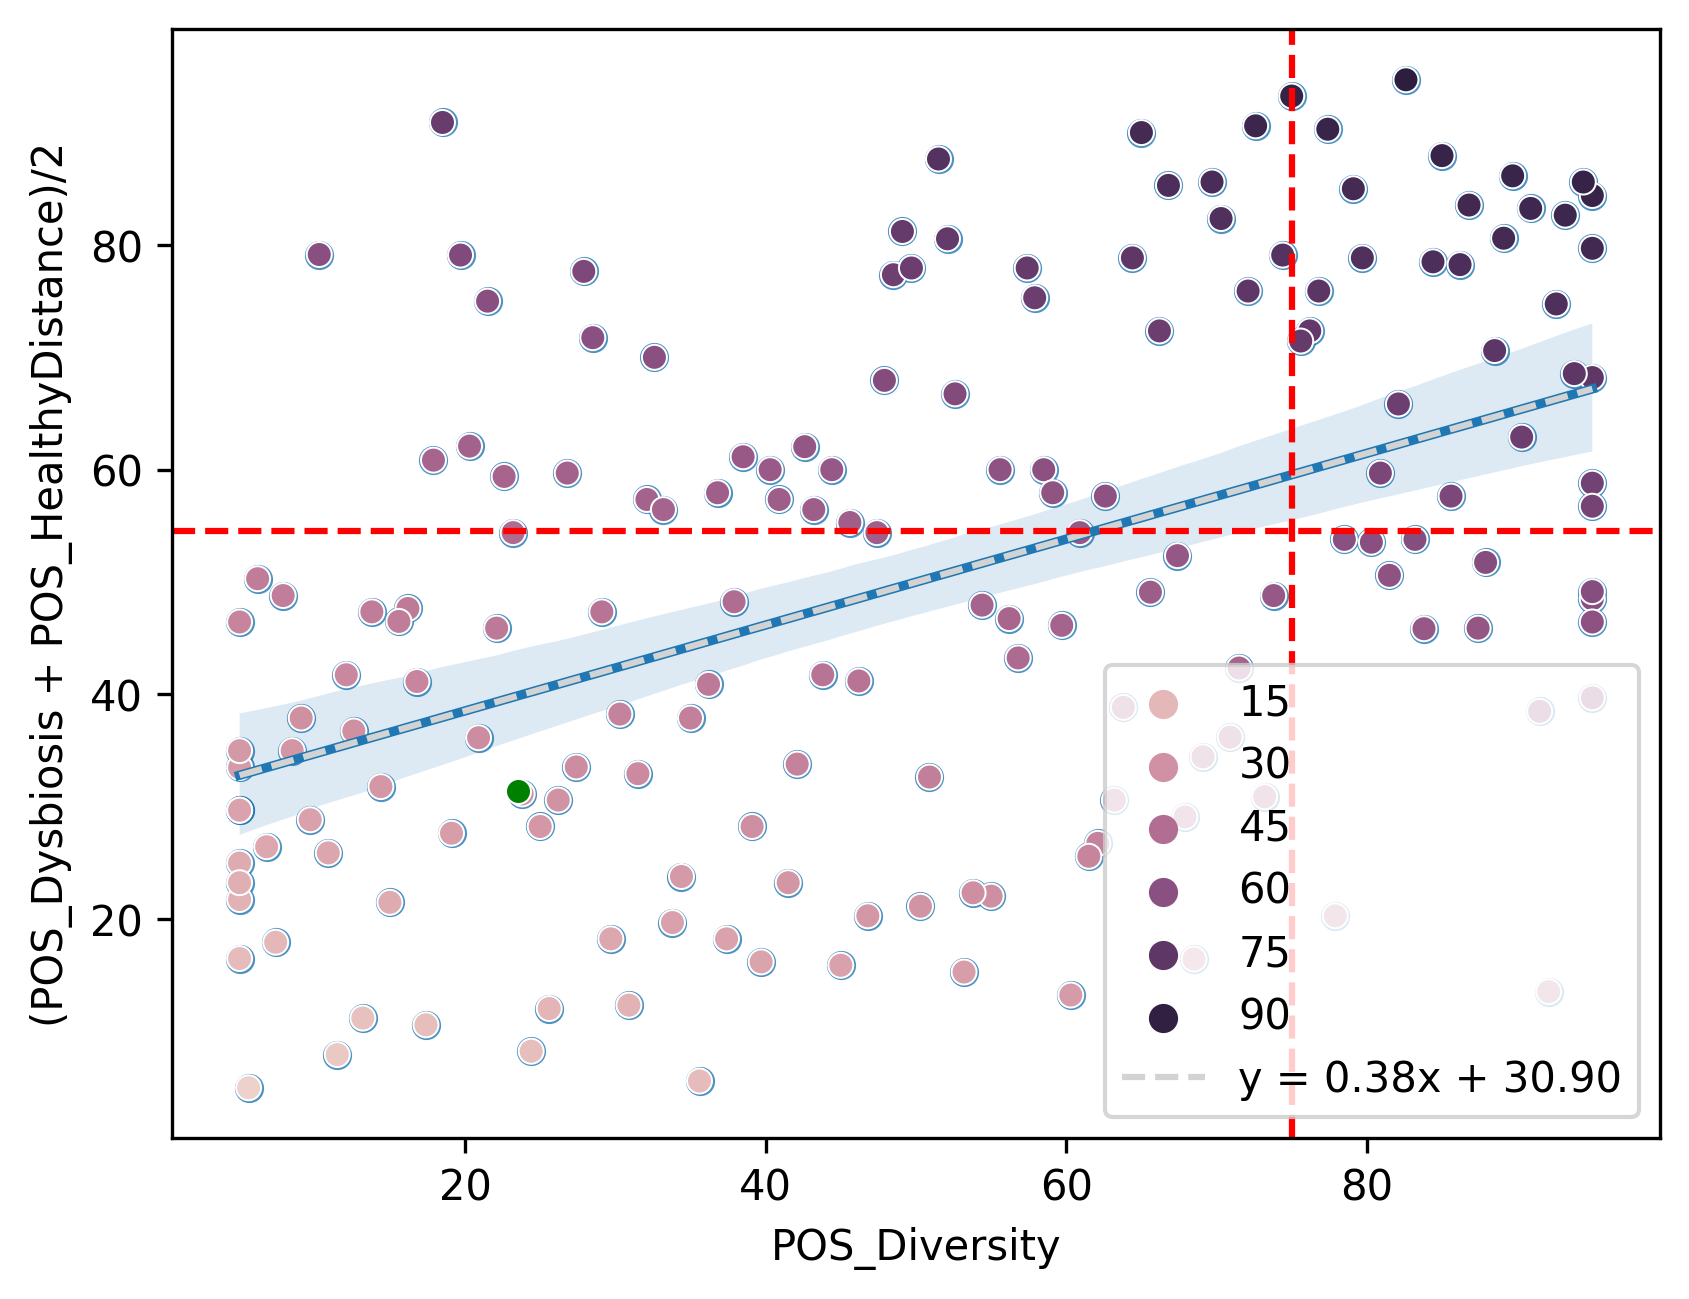
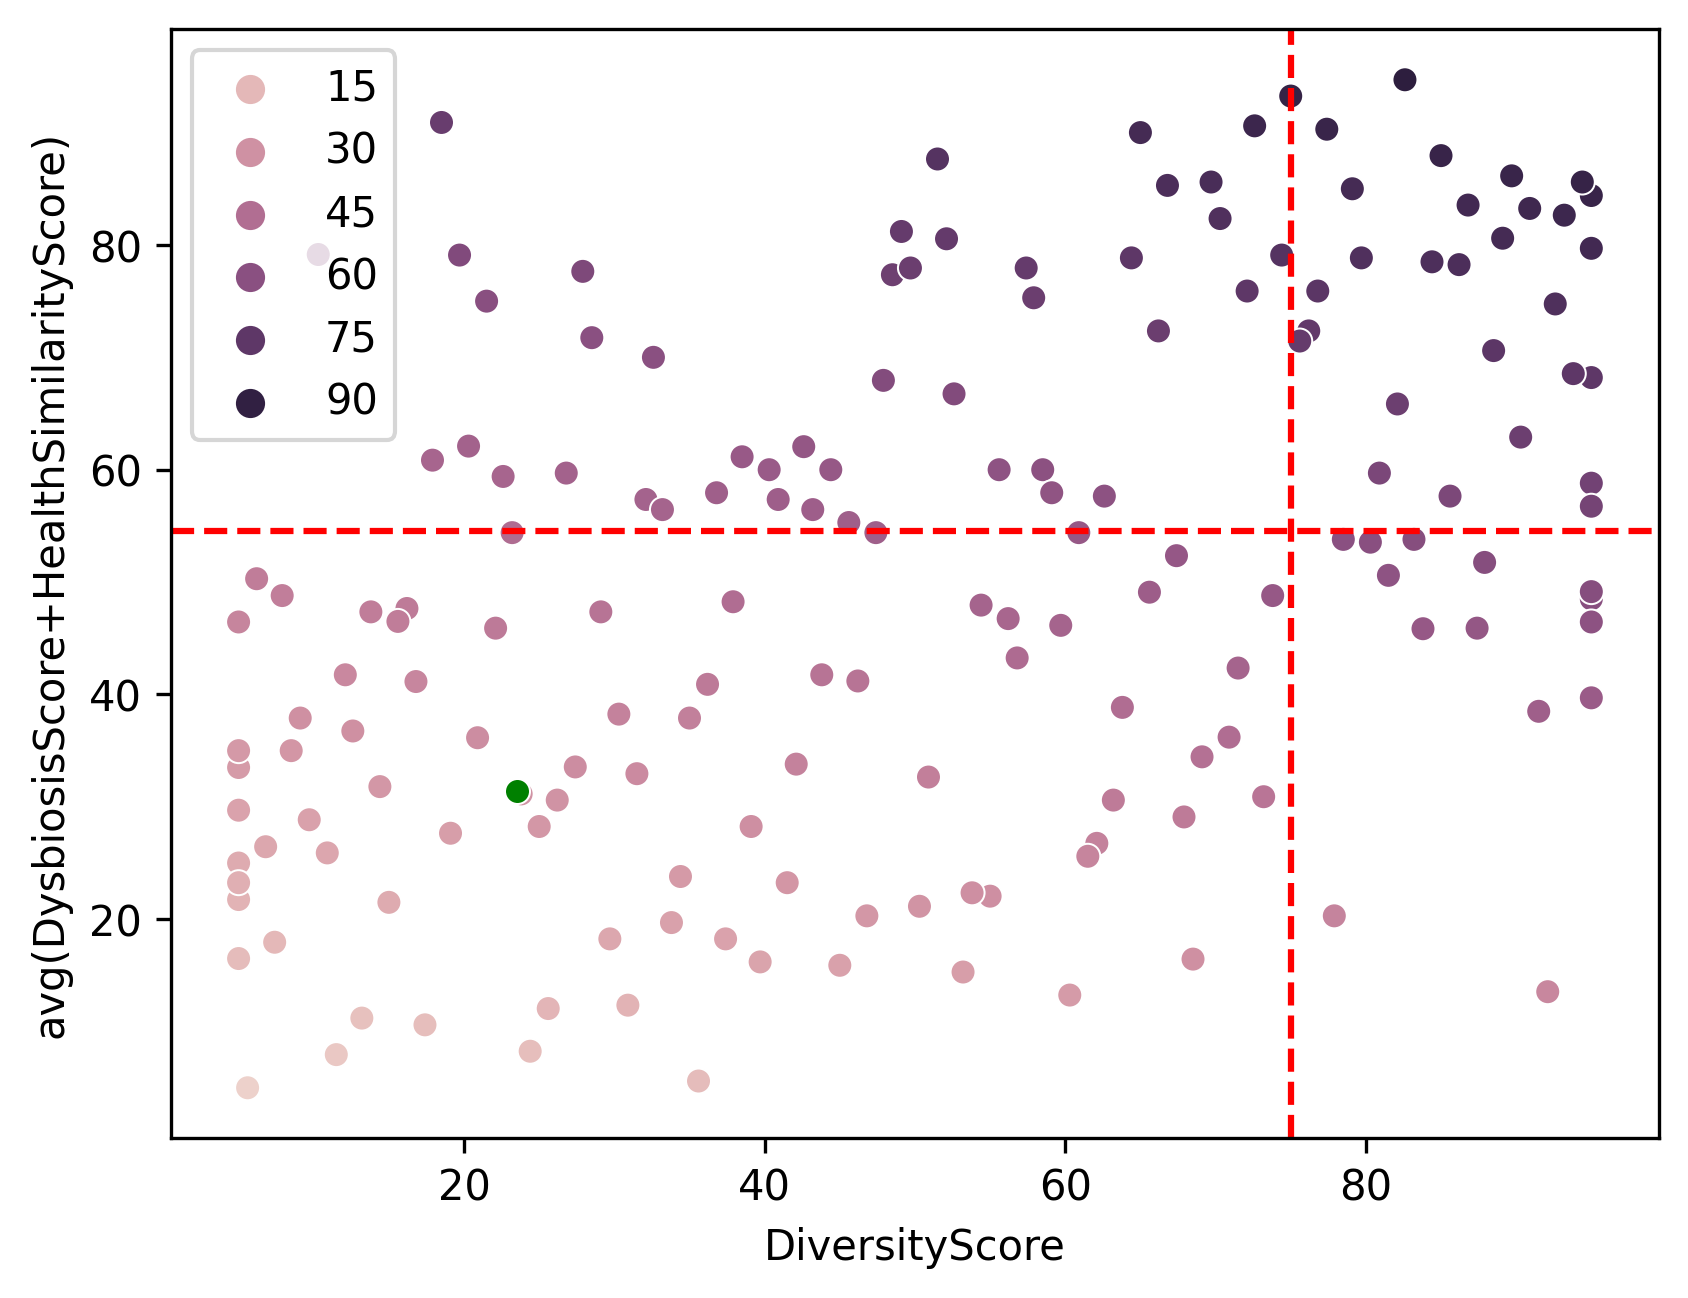
Update scatter plot

diff --git a/comp_percentile_rank_forRPA.py b/comp_percentile_rank_forRPA.py
@@ -413,7 +413,7 @@ class CompAnimalDisease:
         rvmsg = "Success"
         
         try:  
-            
+            '''
             #create regplot
             p = sns.regplot(data=self.df_percentile_rank_db, x=self.df_percentile_rank_db['Diversity'], y=(self.df_percentile_rank_db['Dysbiosis'] + self.df_percentile_rank_db['HealthyDistance'])/2)
 
@@ -424,21 +424,21 @@ class CompAnimalDisease:
             # generate x and y values for the line
             x_vals = np.linspace(start=self.df_percentile_rank_db['Diversity'].min(), stop=self.df_percentile_rank_db['Diversity'].max(), num=100)
             y_vals = intercept + slope * x_vals                   
-            
+            '''
             sns.scatterplot(x=self.df_percentile_rank_db['Diversity'], y=(self.df_percentile_rank_db['Dysbiosis'] + self.df_percentile_rank_db['HealthyDistance'])/2, hue = self.df_percentile_rank_db['TotalScore'] , data=self.df_percentile_rank_db)
             
             # add new points to the scatter plot
             sns.scatterplot(x=self.df_percentile_rank['Diversity'], y=(self.df_percentile_rank['Dysbiosis'] + self.df_percentile_rank['HealthyDistance'])/2, data=self.df_percentile_rank, color='g')            
             
-            plt.plot(x_vals, y_vals, '--', color='lightgray', label=f'y = {slope:.2f}x + {intercept:.2f}')
-            plt.xlabel('POS_Diversity')
-            plt.ylabel('(POS_Dysbiosis + POS_HealthyDistance)/2')
+            #plt.plot(x_vals, y_vals, '--', color='lightgray', label=f'y = {slope:.2f}x + {intercept:.2f}')
+            plt.xlabel('DiversityScore')
+            plt.ylabel('avg(DysbiosisScore+HealthSimilarityScore)')
             plt.legend()
                                  
             plt.axhline(y=60/1.1, xmin=0, xmax=1, color='red', linestyle='--')    
             plt.axvline(x=60/0.8, ymin=0, ymax=1, color='red', linestyle='--')
             
-            '''
+            
             E_data = self.df_percentile_rank_db[(self.df_percentile_rank_db['Diversity'] >= 60/0.8) & ((self.df_percentile_rank_db['Dysbiosis'] + self.df_percentile_rank_db['HealthyDistance'])/2 >= 60/1.1)]
             B_data = self.df_percentile_rank_db[(self.df_percentile_rank_db['Diversity'] < 60/0.8) & ((self.df_percentile_rank_db['Dysbiosis'] + self.df_percentile_rank_db['HealthyDistance'])/2 >= 60/1.1)]
             D_data = self.df_percentile_rank_db[(self.df_percentile_rank_db['Diversity'] < 60/0.8) & ((self.df_percentile_rank_db['Dysbiosis'] + self.df_percentile_rank_db['HealthyDistance'])/2 < 60/1.1)]
@@ -454,7 +454,7 @@ class CompAnimalDisease:
             print("Percentage of samples in B: ", B_percent, '%') 
             print("Percentage of samples in D: ", D_percent, '%')
             print("Percentage of samples in I: ", I_percent, '%')  
-            '''
+            
             
             # save the scatter plot
             plt.savefig(self.path_comp_scatterplot_output , dpi=300, bbox_inches='tight')          
@@ -674,8 +674,8 @@ if __name__ == '__main__':
     #path_exp = 'input/PDmirror_output_dog_1629.csv'
     #path_exp = 'input/PCmirror_output_cat_1520.csv'
     
-    path_exp = 'input/PD_dog_one_sample.csv'
-    #path_exp = 'input/PC_cat_one_sample.csv'
+    #path_exp = 'input/PD_dog_one_sample.csv'
+    path_exp = 'input/PC_cat_one_sample.csv'
     
     companimal = CompAnimalDisease(path_exp)
     companimal.ReadDB()
